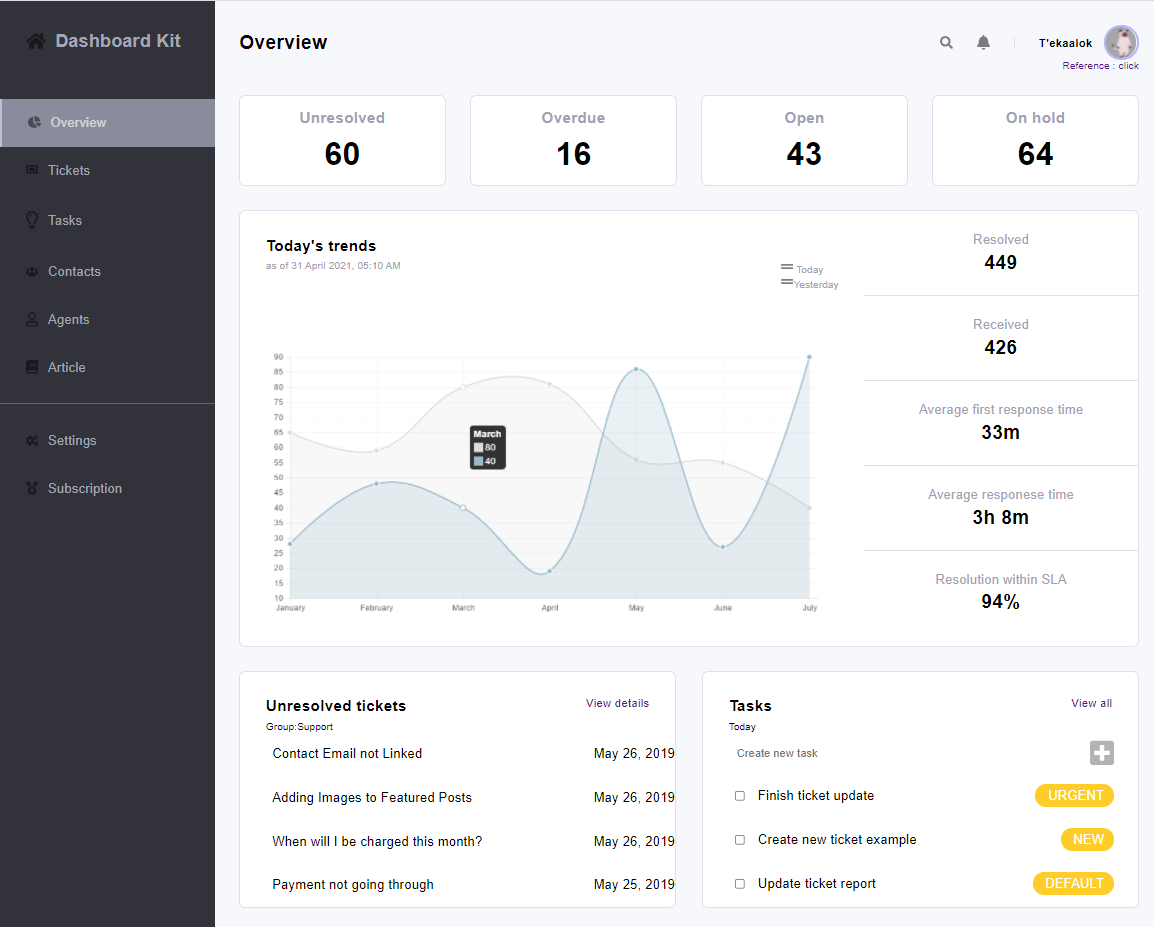
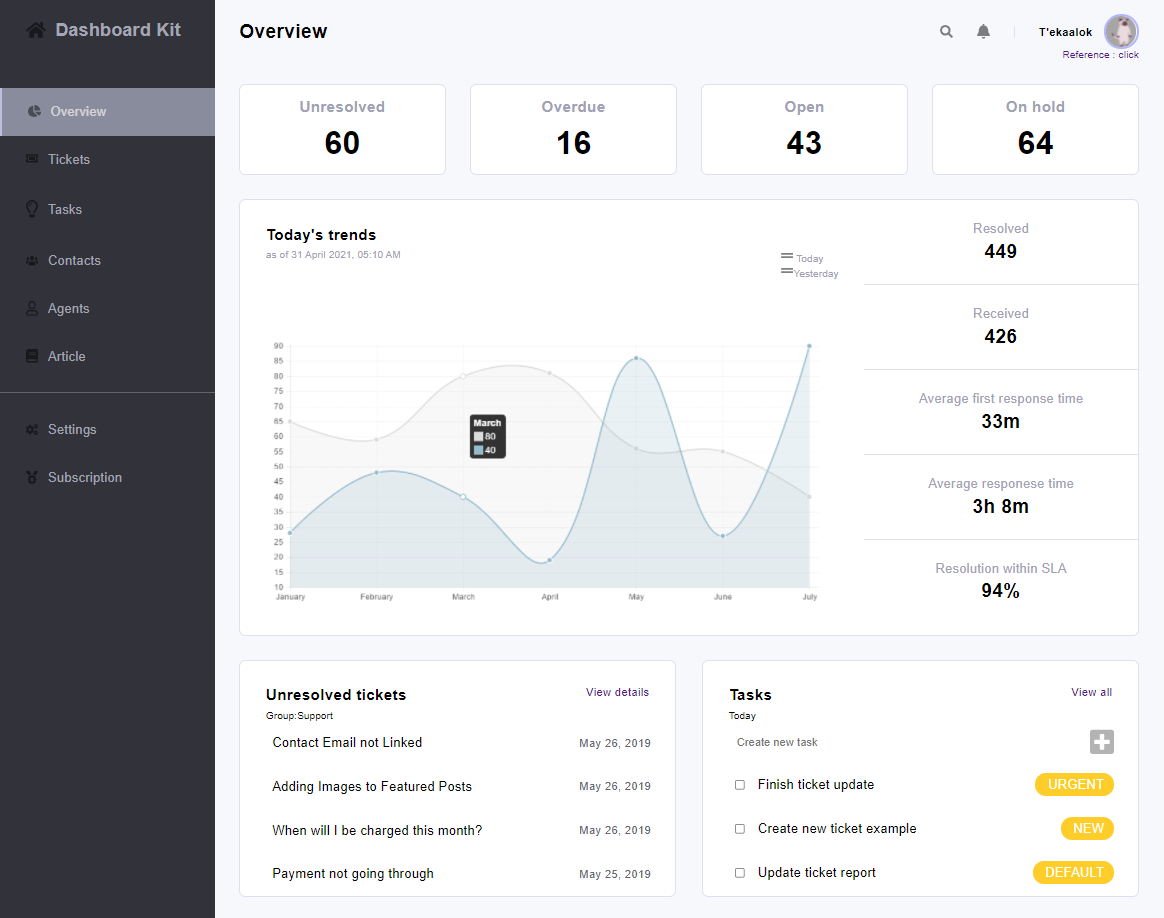
complete

diff --git a/dashboard_kit/dash.html b/dashboard_kit/dash.html
@@ -155,19 +155,19 @@
             <ol class="subex">
               <li>
                 <p>Contact Email not Linked</p>
-                <p>May 26, 2019</p>
+                <p class="dayopt">May 26, 2019</p>
               </li>
               <li>
                 <p>Adding Images to Featured Posts</p>
-                <p>May 26, 2019</p>
+                <p class="dayopt">May 26, 2019</p>
               </li>
               <li>
                 <p>When will I be charged this month?</p>
-                <p>May 26, 2019</p>
+                <p class="dayopt">May 26, 2019</p>
               </li>
               <li>
                 <p>Payment not going through</p>
-                <p>May 25, 2019</p>
+                <p class="dayopt">May 25, 2019</p>
               </li>
             </ol>
           </div>

diff --git a/dashboard_kit/dash.css b/dashboard_kit/dash.css
@@ -284,6 +284,12 @@ dl > div {
   padding-left: 16px;
 }
 
+.dayopt {
+  padding-right: 30px;
+  font-size: 14px;
+  color: #646570;
+}
+
 #work {
   width: 336px;
   border: black solid 0px;
